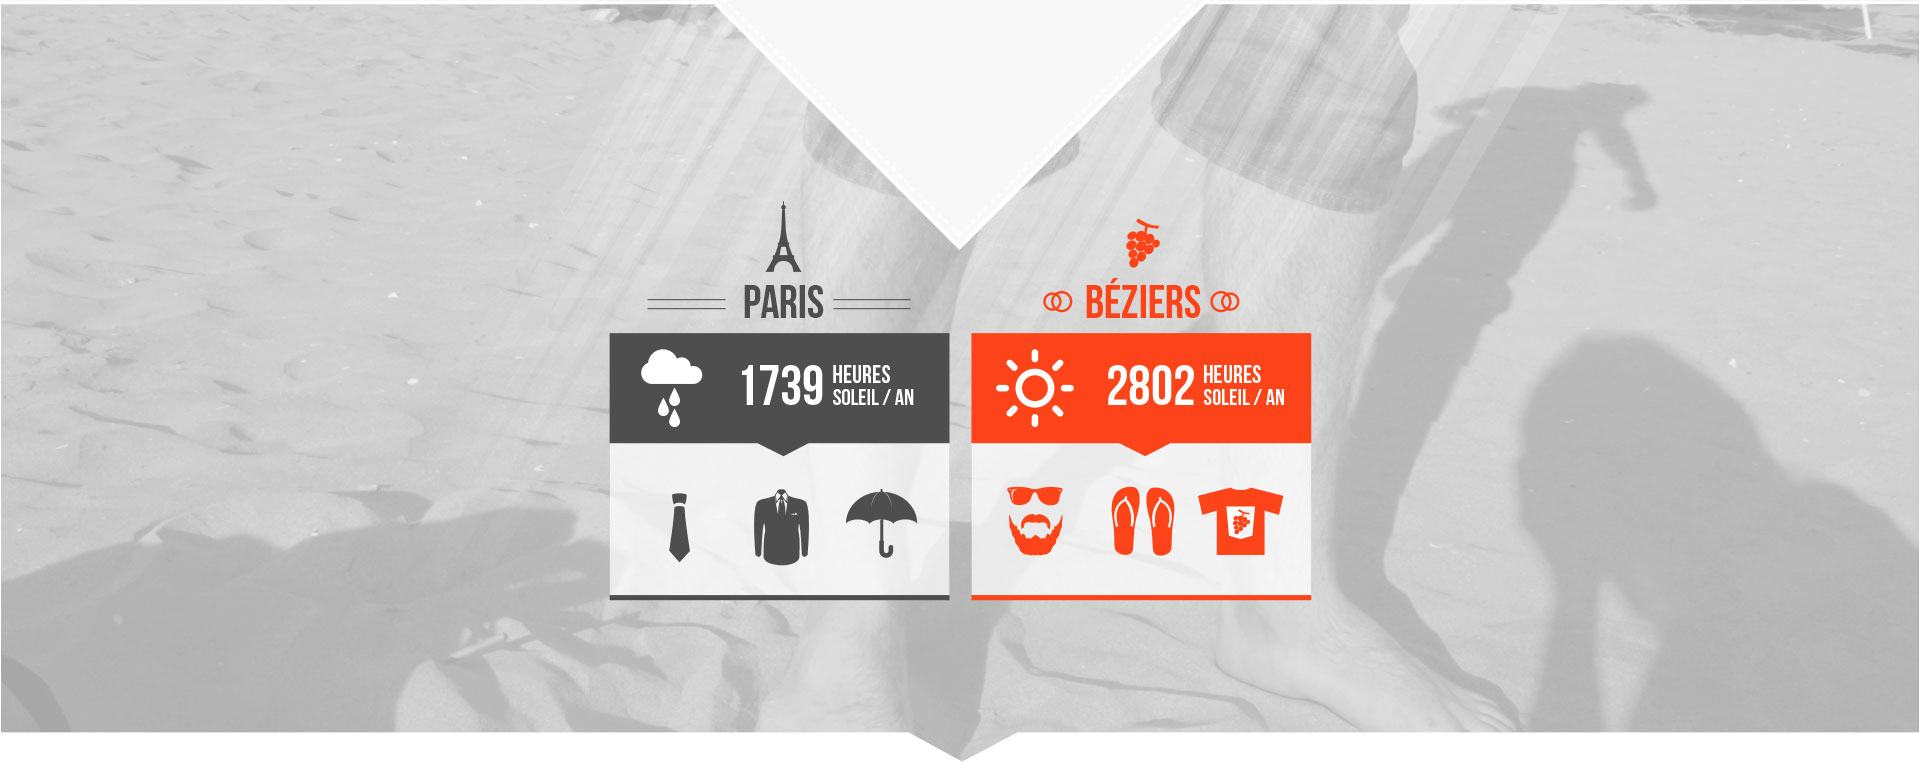
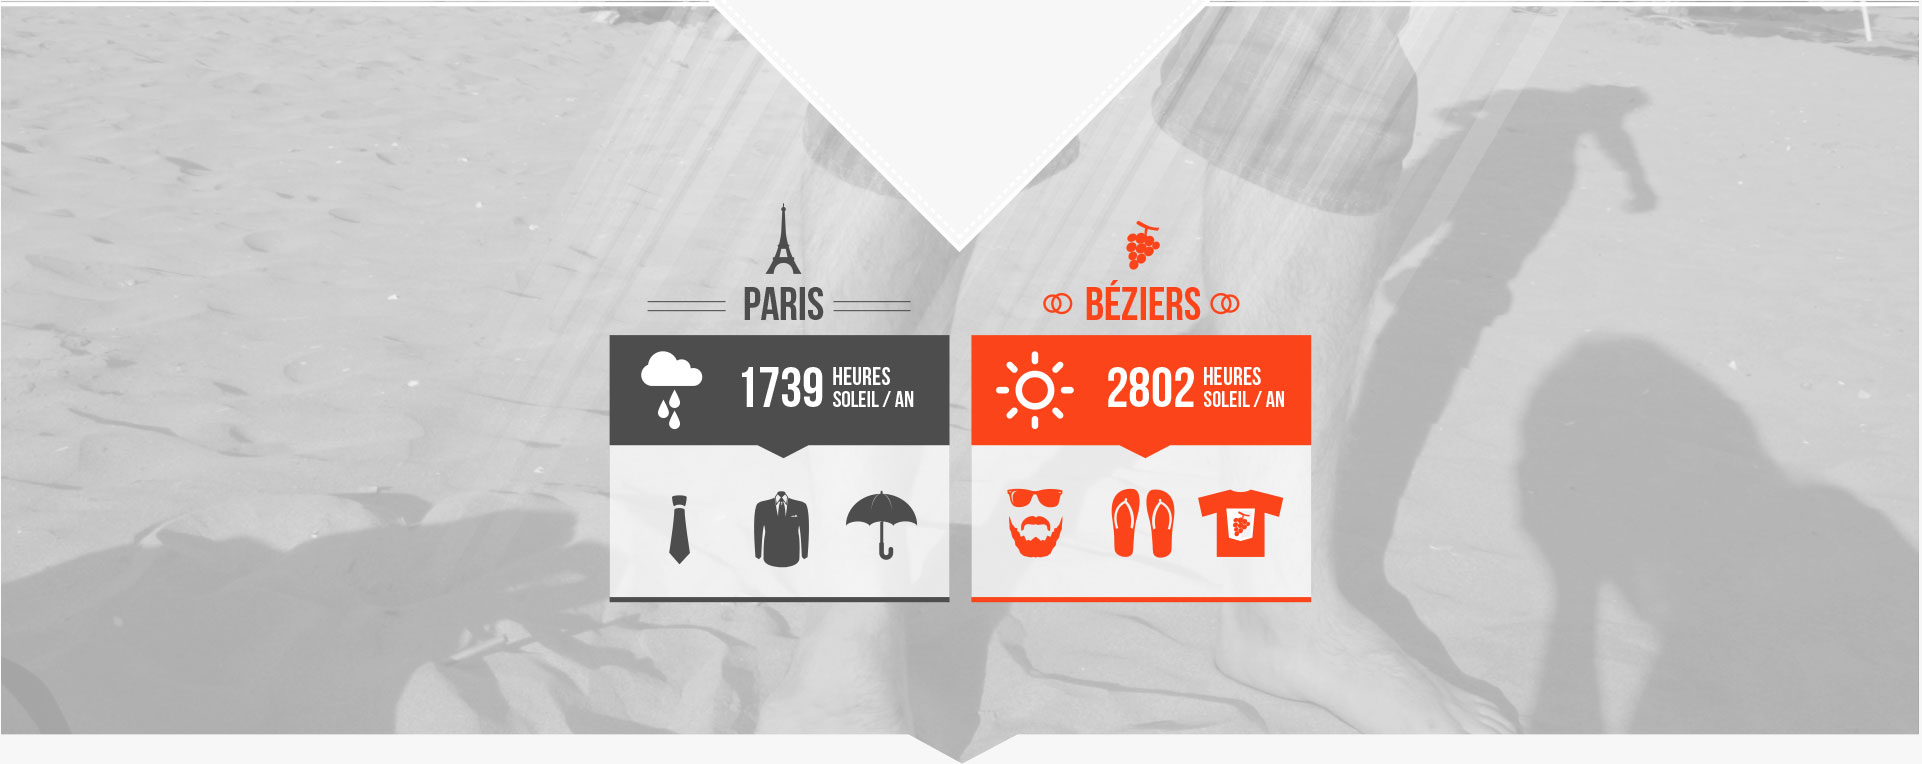
added dresscode bg

diff --git a/css/main.css b/css/main.css
@@ -172,7 +172,7 @@ body {
 }
 #home > nav:not([role="navigation"]) > ul > li > a {
     text-decoration: none;
-    color: #c30;
+    color: #FC441A;
     display: block;
 }
 
@@ -483,6 +483,11 @@ body > section > header > h2 {
     display: block;
 }
 
+/*dresscode*/
+#dresscode {
+    height: 685px;
+    background: #F7F7F7 url(../img/dresscode.jpg) center 0 no-repeat;
+}
 /* register */
 body > #register,
 body > #support-content {

diff --git a/js/main.js b/js/main.js
@@ -19,8 +19,8 @@ $(function() {
     // Temporarly deactivated pages.
     var disabledSections = [
         //'#schedule',
-        '#staff',
-        '#dresscode'
+        '#staff'
+        //'#dresscode'
         ];
     $(disabledSections.join(',')).addClass('disabled');
     var disabledClicks = [
